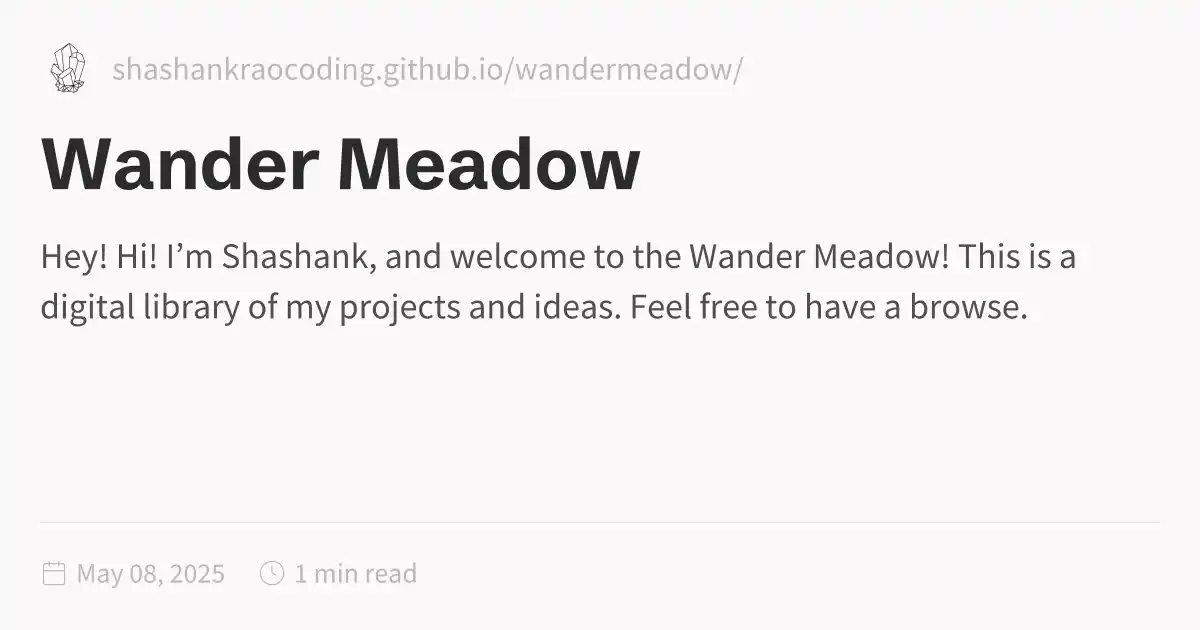
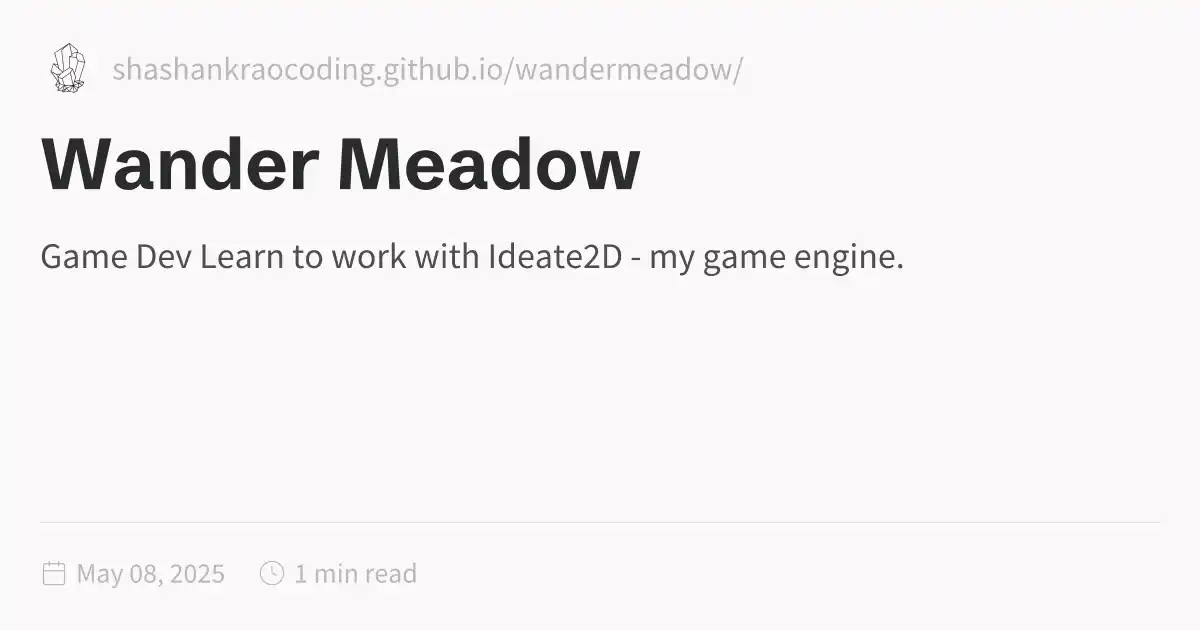
Update public folder - 2025-05-08\_1738

Changed region(s): [[0.0308, 0.3921, 0.8942, 0.5127]]

diff --git a/Wander-Meadow.html b/Wander-Meadow.html
@@ -1,5 +1,5 @@
 <!DOCTYPE html>
-<html lang="en"><head><title>Wander Meadow</title><meta charset="utf-8"/><link rel="preconnect" href="https://fonts.googleapis.com"/><link rel="preconnect" href="https://fonts.gstatic.com"/><link rel="stylesheet" href="https://fonts.googleapis.com/css2?family=Schibsted Grotesk:wght@400;700&amp;family=Source Sans Pro:ital,wght@0,400;0,600;1,400;1,600&amp;family=IBM Plex Mono:wght@400;600&amp;display=swap"/><link rel="preconnect" href="https://cdnjs.cloudflare.com" crossorigin="anonymous"/><meta name="viewport" content="width=device-width, initial-scale=1.0"/><meta name="og:site_name" content="Wander Meadow"/><meta property="og:title" content="Wander Meadow"/><meta property="og:type" content="website"/><meta name="twitter:card" content="summary_large_image"/><meta name="twitter:title" content="Wander Meadow"/><meta name="twitter:description" content="Hey! Hi! I’m Shashank, and welcome to the Wander Meadow! This is a digital library of my projects and ideas. Feel free to have a browse."/><meta property="og:description" content="Hey! Hi! I’m Shashank, and welcome to the Wander Meadow! This is a digital library of my projects and ideas. Feel free to have a browse."/><meta property="og:image:alt" content="Hey! Hi! I’m Shashank, and welcome to the Wander Meadow! This is a digital library of my projects and ideas. Feel free to have a browse."/><meta property="twitter:domain" content="shashankraocoding.github.io/wandermeadow/"/><meta property="og:url" content="https://shashankraocoding.github.io/wandermeadow/Wander-Meadow"/><meta property="twitter:url" content="https://shashankraocoding.github.io/wandermeadow/Wander-Meadow"/><link rel="icon" href="./static/icon.png"/><meta name="description" content="Hey! Hi! I’m Shashank, and welcome to the Wander Meadow! This is a digital library of my projects and ideas. Feel free to have a browse."/><meta name="generator" content="Quartz"/><link href="./index.css" rel="stylesheet" type="text/css" spa-preserve/><style>.expand-button {
+<html lang="en"><head><title>Wander Meadow</title><meta charset="utf-8"/><link rel="preconnect" href="https://fonts.googleapis.com"/><link rel="preconnect" href="https://fonts.gstatic.com"/><link rel="stylesheet" href="https://fonts.googleapis.com/css2?family=Schibsted Grotesk:wght@400;700&amp;family=Source Sans Pro:ital,wght@0,400;0,600;1,400;1,600&amp;family=IBM Plex Mono:wght@400;600&amp;display=swap"/><link rel="preconnect" href="https://cdnjs.cloudflare.com" crossorigin="anonymous"/><meta name="viewport" content="width=device-width, initial-scale=1.0"/><meta name="og:site_name" content="Wander Meadow"/><meta property="og:title" content="Wander Meadow"/><meta property="og:type" content="website"/><meta name="twitter:card" content="summary_large_image"/><meta name="twitter:title" content="Wander Meadow"/><meta name="twitter:description" content="Game Dev Learn to work with Ideate2D - my game engine."/><meta property="og:description" content="Game Dev Learn to work with Ideate2D - my game engine."/><meta property="og:image:alt" content="Game Dev Learn to work with Ideate2D - my game engine."/><meta property="twitter:domain" content="shashankraocoding.github.io/wandermeadow/"/><meta property="og:url" content="https://shashankraocoding.github.io/wandermeadow/Wander-Meadow"/><meta property="twitter:url" content="https://shashankraocoding.github.io/wandermeadow/Wander-Meadow"/><link rel="icon" href="./static/icon.png"/><meta name="description" content="Game Dev Learn to work with Ideate2D - my game engine."/><meta name="generator" content="Quartz"/><link href="./index.css" rel="stylesheet" type="text/css" spa-preserve/><style>.expand-button {
   position: absolute;
   display: flex;
   float: right;
@@ -116,10 +116,7 @@ pre:hover > .expand-button {
   padding: 0 12px;
   font-size: 14px;
 }
[1 lines of base64/hex data omitted]
-<h5 id="hi-im-shashank-and-welcome-to-the-wander-meadow">Hi! I’m Shashank, and welcome to the <em>Wander Meadow</em>!<a role="anchor" aria-hidden="true" tabindex="-1" data-no-popover="true" href="#hi-im-shashank-and-welcome-to-the-wander-meadow" class="internal"><svg width="18" height="18" viewBox="0 0 24 24" fill="none" stroke="currentColor" stroke-width="2" stroke-linecap="round" stroke-linejoin="round"><path d="M10 13a5 5 0 0 0 7.54.54l3-3a5 5 0 0 0-7.07-7.07l-1.72 1.71"></path><path d="M14 11a5 5 0 0 0-7.54-.54l-3 3a5 5 0 0 0 7.07 7.07l1.71-1.71"></path></svg></a></h5>
-<p>This is a digital library of my projects and ideas. Feel free to have a browse. Reach out to me if you’d like me to build something!</p>
-<div class="container"> 
[1 lines of base64/hex data omitted]
 	<div onclick="redirect('Website-Resources/Projects/Ideate2D')" class="card"> 
 		<h3 id="game-dev">Game Dev<a role="anchor" aria-hidden="true" tabindex="-1" data-no-popover="true" href="#game-dev" class="internal"><svg width="18" height="18" viewBox="0 0 24 24" fill="none" stroke="currentColor" stroke-width="2" stroke-linecap="round" stroke-linejoin="round"><path d="M10 13a5 5 0 0 0 7.54.54l3-3a5 5 0 0 0-7.07-7.07l-1.72 1.71"></path><path d="M14 11a5 5 0 0 0-7.54-.54l-3 3a5 5 0 0 0 7.07 7.07l1.71-1.71"></path></svg></a></h3> 
 		<p> Learn to work with Ideate2D - my game engine. Easy to learn for python users! </p> 

diff --git a/index.html b/index.html
@@ -1,5 +1,5 @@
 <!DOCTYPE html>
-<html lang="en"><head><title>Wander Meadow</title><meta charset="utf-8"/><link rel="preconnect" href="https://fonts.googleapis.com"/><link rel="preconnect" href="https://fonts.gstatic.com"/><link rel="stylesheet" href="https://fonts.googleapis.com/css2?family=Schibsted Grotesk:wght@400;700&amp;family=Source Sans Pro:ital,wght@0,400;0,600;1,400;1,600&amp;family=IBM Plex Mono:wght@400;600&amp;display=swap"/><link rel="preconnect" href="https://cdnjs.cloudflare.com" crossorigin="anonymous"/><meta name="viewport" content="width=device-width, initial-scale=1.0"/><meta name="og:site_name" content="Wander Meadow"/><meta property="og:title" content="Wander Meadow"/><meta property="og:type" content="website"/><meta name="twitter:card" content="summary_large_image"/><meta name="twitter:title" content="Wander Meadow"/><meta name="twitter:description" content="Hey! Hi! I’m Shashank, and welcome to the Wander Meadow! This is a digital library of my projects and ideas. Feel free to have a browse."/><meta property="og:description" content="Hey! Hi! I’m Shashank, and welcome to the Wander Meadow! This is a digital library of my projects and ideas. Feel free to have a browse."/><meta property="og:image:alt" content="Hey! Hi! I’m Shashank, and welcome to the Wander Meadow! This is a digital library of my projects and ideas. Feel free to have a browse."/><meta property="twitter:domain" content="shashankraocoding.github.io/wandermeadow/"/><meta property="og:url" content="https://shashankraocoding.github.io/wandermeadow/Wander-Meadow"/><meta property="twitter:url" content="https://shashankraocoding.github.io/wandermeadow/Wander-Meadow"/><link rel="icon" href="./static/icon.png"/><meta name="description" content="Hey! Hi! I’m Shashank, and welcome to the Wander Meadow! This is a digital library of my projects and ideas. Feel free to have a browse."/><meta name="generator" content="Quartz"/><link href="./index.css" rel="stylesheet" type="text/css" spa-preserve/><style>.expand-button {
+<html lang="en"><head><title>Wander Meadow</title><meta charset="utf-8"/><link rel="preconnect" href="https://fonts.googleapis.com"/><link rel="preconnect" href="https://fonts.gstatic.com"/><link rel="stylesheet" href="https://fonts.googleapis.com/css2?family=Schibsted Grotesk:wght@400;700&amp;family=Source Sans Pro:ital,wght@0,400;0,600;1,400;1,600&amp;family=IBM Plex Mono:wght@400;600&amp;display=swap"/><link rel="preconnect" href="https://cdnjs.cloudflare.com" crossorigin="anonymous"/><meta name="viewport" content="width=device-width, initial-scale=1.0"/><meta name="og:site_name" content="Wander Meadow"/><meta property="og:title" content="Wander Meadow"/><meta property="og:type" content="website"/><meta name="twitter:card" content="summary_large_image"/><meta name="twitter:title" content="Wander Meadow"/><meta name="twitter:description" content="Game Dev Learn to work with Ideate2D - my game engine."/><meta property="og:description" content="Game Dev Learn to work with Ideate2D - my game engine."/><meta property="og:image:alt" content="Game Dev Learn to work with Ideate2D - my game engine."/><meta property="twitter:domain" content="shashankraocoding.github.io/wandermeadow/"/><meta property="og:url" content="https://shashankraocoding.github.io/wandermeadow/Wander-Meadow"/><meta property="twitter:url" content="https://shashankraocoding.github.io/wandermeadow/Wander-Meadow"/><link rel="icon" href="./static/icon.png"/><meta name="description" content="Game Dev Learn to work with Ideate2D - my game engine."/><meta name="generator" content="Quartz"/><link href="./index.css" rel="stylesheet" type="text/css" spa-preserve/><style>.expand-button {
   position: absolute;
   display: flex;
   float: right;
@@ -116,10 +116,7 @@ pre:hover > .expand-button {
   padding: 0 12px;
   font-size: 14px;
 }
[1 lines of base64/hex data omitted]
-<h5 id="hi-im-shashank-and-welcome-to-the-wander-meadow">Hi! I’m Shashank, and welcome to the <em>Wander Meadow</em>!<a role="anchor" aria-hidden="true" tabindex="-1" data-no-popover="true" href="#hi-im-shashank-and-welcome-to-the-wander-meadow" class="internal"><svg width="18" height="18" viewBox="0 0 24 24" fill="none" stroke="currentColor" stroke-width="2" stroke-linecap="round" stroke-linejoin="round"><path d="M10 13a5 5 0 0 0 7.54.54l3-3a5 5 0 0 0-7.07-7.07l-1.72 1.71"></path><path d="M14 11a5 5 0 0 0-7.54-.54l-3 3a5 5 0 0 0 7.07 7.07l1.71-1.71"></path></svg></a></h5>
-<p>This is a digital library of my projects and ideas. Feel free to have a browse. Reach out to me if you’d like me to build something!</p>
-<div class="container"> 
[1 lines of base64/hex data omitted]
 	<div onclick="redirect('Website-Resources/Projects/Ideate2D')" class="card"> 
 		<h3 id="game-dev">Game Dev<a role="anchor" aria-hidden="true" tabindex="-1" data-no-popover="true" href="#game-dev" class="internal"><svg width="18" height="18" viewBox="0 0 24 24" fill="none" stroke="currentColor" stroke-width="2" stroke-linecap="round" stroke-linejoin="round"><path d="M10 13a5 5 0 0 0 7.54.54l3-3a5 5 0 0 0-7.07-7.07l-1.72 1.71"></path><path d="M14 11a5 5 0 0 0-7.54-.54l-3 3a5 5 0 0 0 7.07 7.07l1.71-1.71"></path></svg></a></h3> 
 		<p> Learn to work with Ideate2D - my game engine. Easy to learn for python users! </p> 
